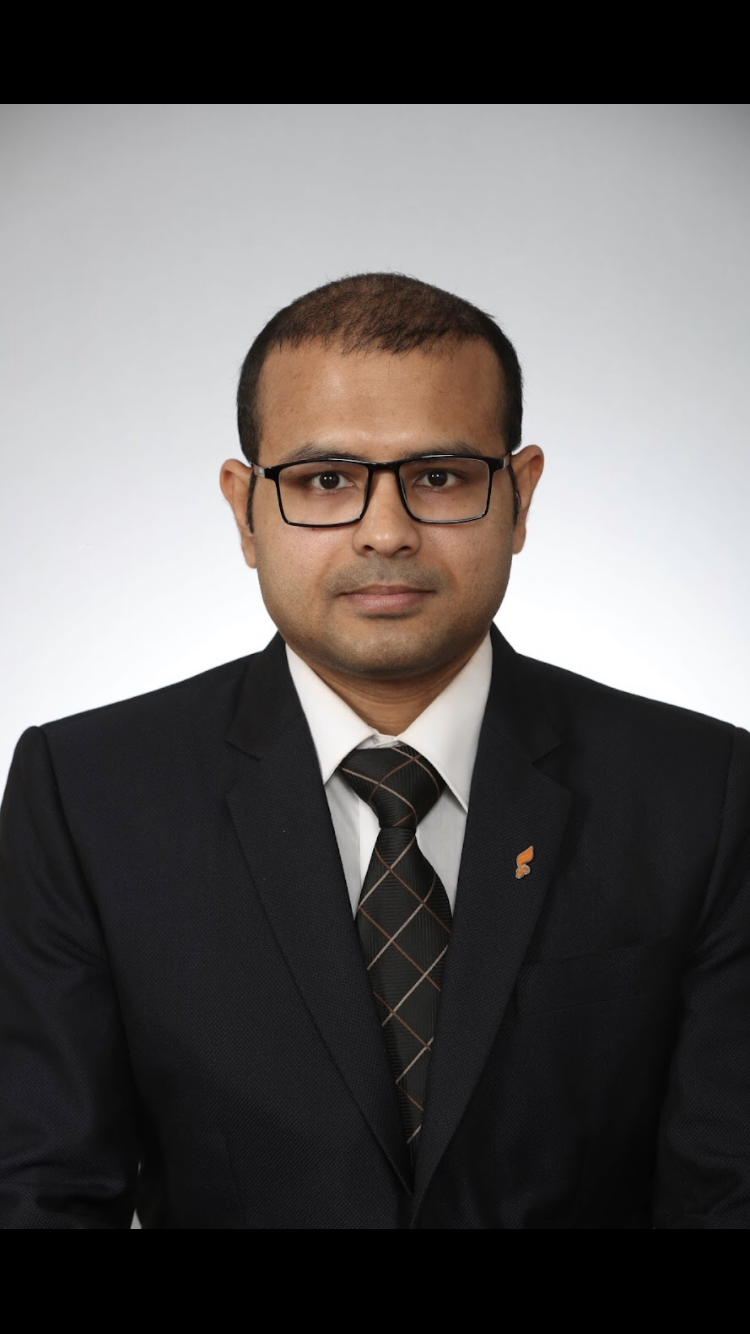
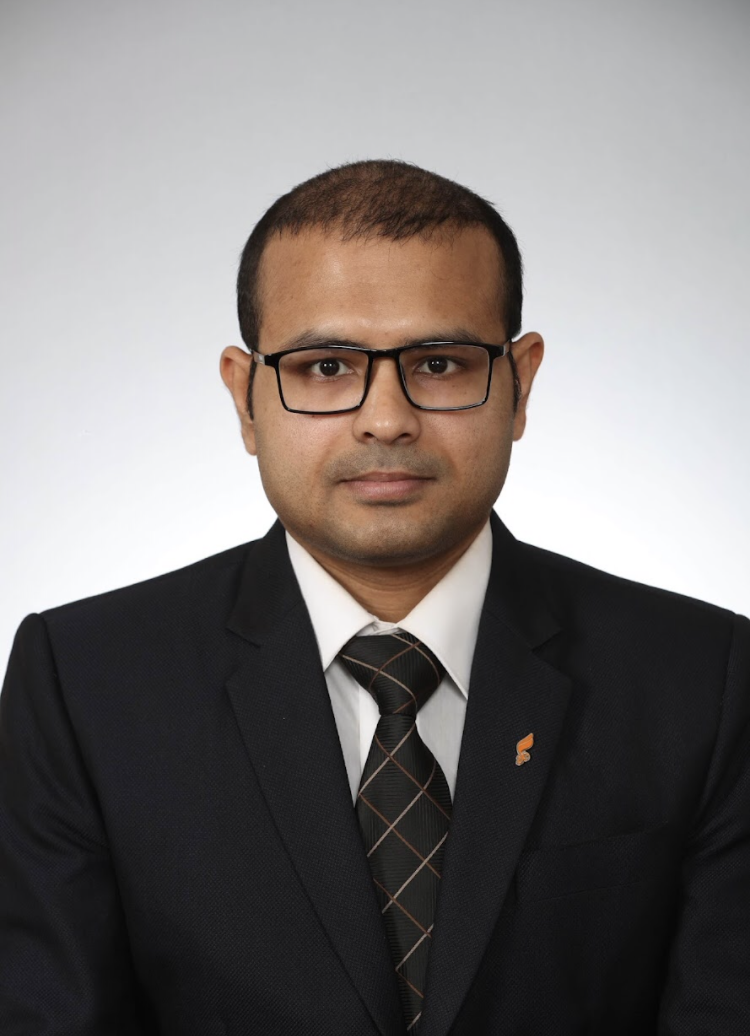
feat: add founder photo object-contain

diff --git a/app/about/page.tsx b/app/about/page.tsx
@@ -1,4 +1,5 @@
 import type { Metadata } from 'next'
+import Image from 'next/image'
 import Link from 'next/link'
 import { ArrowRight, Globe, Target, Zap, Heart, CheckCircle } from 'lucide-react'
 import AnimatedSection from '@/components/ui/AnimatedSection'
@@ -102,14 +103,17 @@ export default function AboutPage() {
             {/* Photo placeholder */}
             <AnimatedSection direction="left">
               <div className="relative">
-                <div className="w-full max-w-sm mx-auto lg:mx-0 aspect-square rounded-3xl bg-gradient-to-br from-primary/10 to-secondary/10 border border-primary/20 flex items-center justify-center overflow-hidden">
-                  <div className="text-center">
-                    <div className="w-32 h-32 rounded-full bg-primary/20 border-2 border-primary/40 flex items-center justify-center mx-auto mb-4">
-                      <span className="text-5xl font-black text-primary">A</span>
-                    </div>
-                    <p className="text-muted text-sm">Abdullah Al Masud</p>
-                    <p className="text-xs text-muted/60 mt-1">Founder, Axiora GTM</p>
-                  </div>
+                <div className="w-full max-w-sm mx-auto lg:mx-0 rounded-3xl bg-gradient-to-br from-primary/10 to-secondary/10 border border-primary/20 overflow-hidden flex flex-col items-center pb-6">
+                  <Image
+                    src="/masud.jpg"
+                    alt="Abdullah Al Masud - Founder, Axiora GTM"
+                    width={400}
+                    height={500}
+                    className="w-full object-contain rounded-2xl"
+                    priority
+                  />
+                  <p className="text-muted text-sm mt-4">Abdullah Al Masud</p>
+                  <p className="text-xs text-muted/60 mt-1">Founder, Axiora GTM</p>
                 </div>
                 {/* Floating badge */}
                 <div className="absolute -bottom-4 -right-4 bg-background border border-primary/30 rounded-2xl p-4 shadow-xl">
